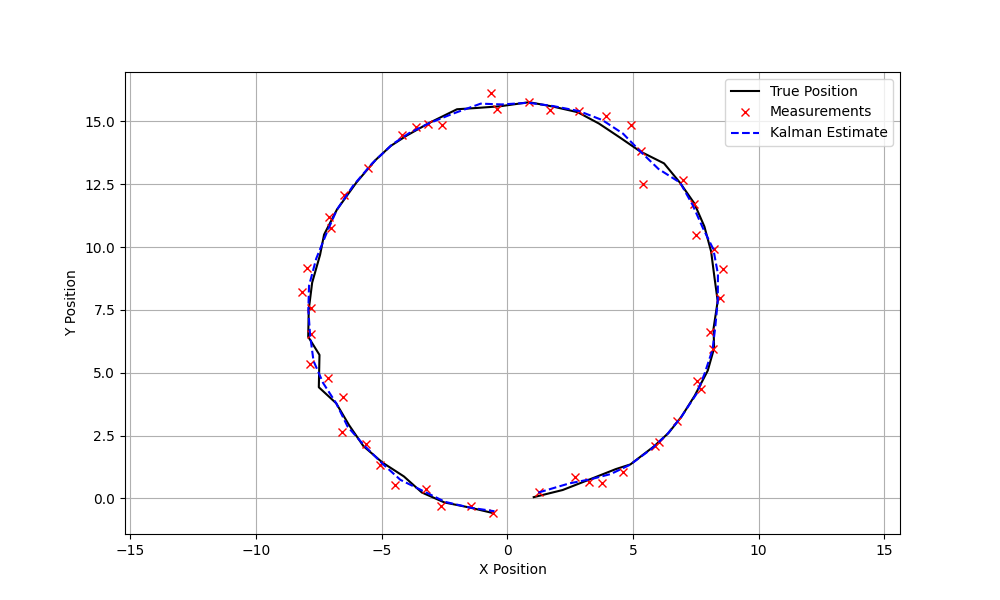
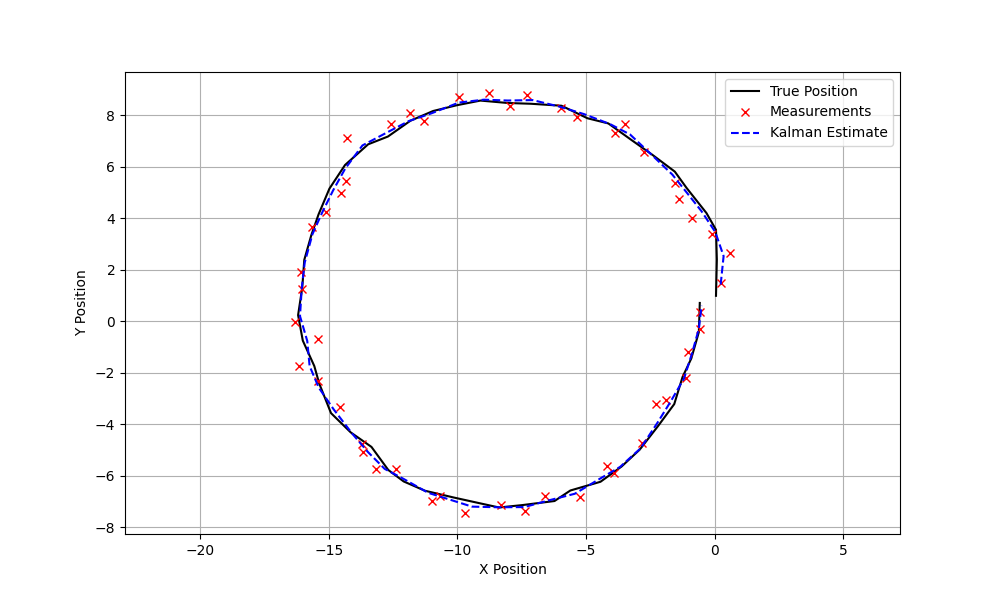
Fix to circle logic

diff --git a/main.py b/main.py
@@ -1,13 +1,10 @@
 import numpy as np
 import matplotlib.pyplot as plt
 
-def circle(samples = 50, origin = np.array([0,0]), radius = 1 ):
-    
+def circle_control_inputs(samples=50, radius=1.0):
     angles = np.linspace(0, 2 * np.pi, samples, endpoint=False)
-    x = origin[0] + radius * np.cos(angles)
-    y = origin[1] + radius * np.sin(angles)
-
-    return np.vstack((x, y)).T
+    velocities = radius * np.vstack((-np.sin(angles), np.cos(angles))).T
+    return velocities  # shape: (samples, 2)
 
 timeStep = 1.0
 # Intal state and covaraince
@@ -38,19 +35,24 @@ np.random.seed(42)
 inital_pos = mu.copy()
 
 # Circle Control input
-u_t = circle()
+
+u_t = circle_control_inputs()
+
 
 
 for i in range(50):
+    theta = 2 * np.pi * i / 50  # N = number of steps
+    u_t[i] = 1 * np.array([-np.sin(theta), np.cos(theta)])
+    u_vec = u_t[i].reshape(2, 1) 
     
     # Simulate the real position wit noisy measurement
     process_noise = np.random.multivariate_normal([0,0],R).reshape(2,1)
-    true_pos = A @ mu + B @ u_t[i] + process_noise
+    true_pos = A @ mu + B @ u_vec + process_noise
     measurement_noise = np.random.multivariate_normal([0,0],Q).reshape(2,1)
     z_t = C @ true_pos + measurement_noise
 
     # Prediction
-    mu_bar = A @ mu + B @ u_t[i]
+    mu_bar = A @ mu + B @ u_vec
     sigma_bar = A @ sigma @ A.transpose() + R 
 
     # Update step 
@@ -62,7 +64,7 @@ for i in range(50):
     measurements.append(z_t.flatten())
     estimates.append(mu.flatten())
 
-# --- Plotting ---
+# Plotting 
 true_positions = np.array(pos_real)
 measurements = np.array(measurements)
 estimates = np.array(estimates)
